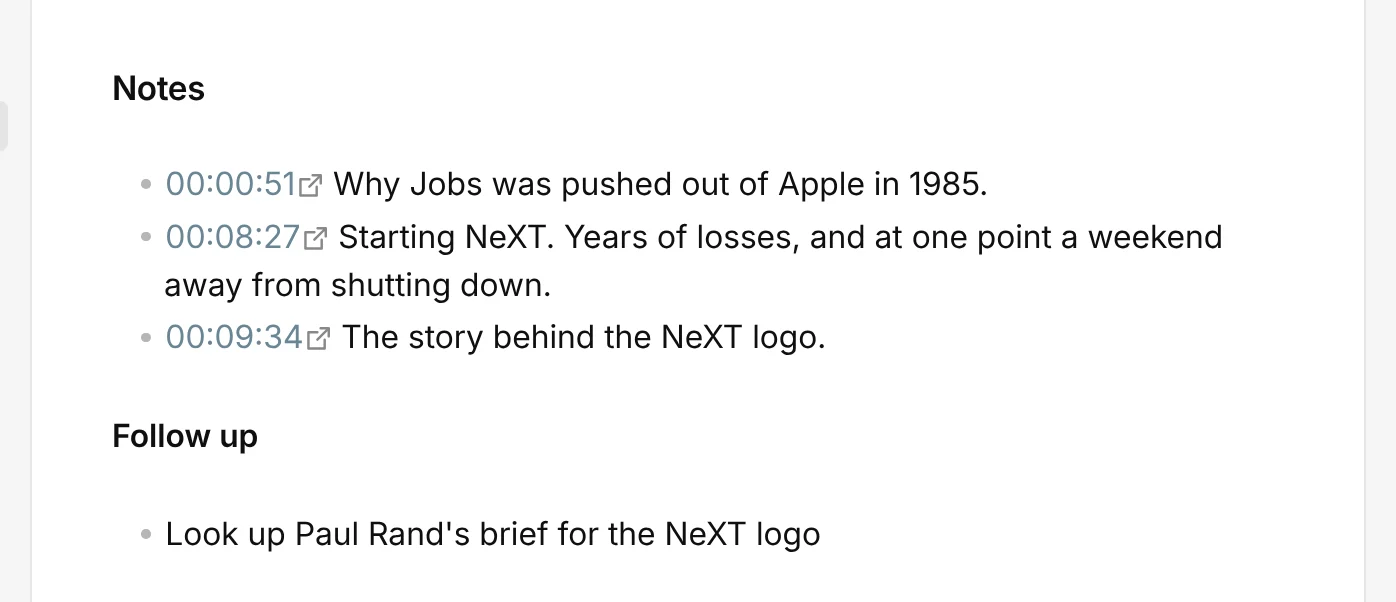
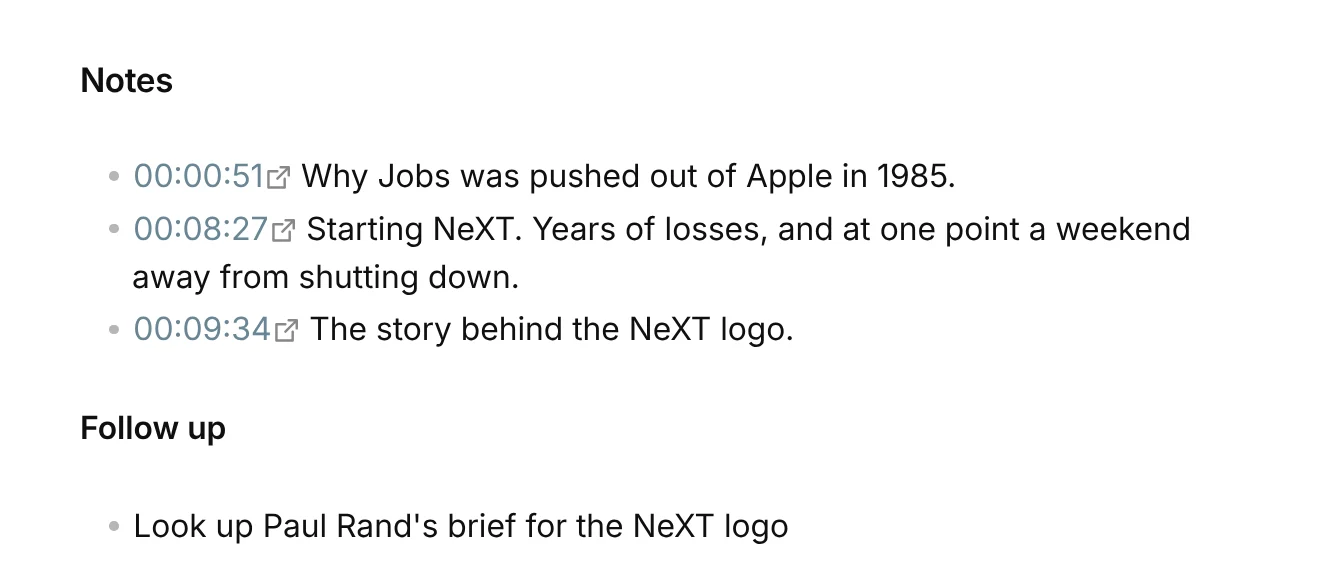
docs: apply the third review round: matching note screenshot, phone hero, and cleaner crops
The episode-note screenshot now sits under the template that produced it. Phones see the episode note with its timestamp links in the landing hero, and the desktop hero sits higher so its timestamps show above the fold. Note, Bases, player, and toolbar crops lose their stray edges, caret, and tooltip.

The phone search crop is gone: in Obsidian's phone layout, PodNotes places each result's Add button off screen, so phones get the desktop shot. Code in settings tables wraps instead of overlapping the next column.

diff --git a/docs/src/styles/custom.css b/docs/src/styles/custom.css
@@ -134,6 +134,7 @@
 		width: 24%;
 	}
 	.sl-markdown-content table.settings td code {
+		white-space: normal;
 		overflow-wrap: anywhere;
 	}
 }
@@ -149,6 +150,9 @@
 	border-bottom: 1px solid var(--sl-color-hairline);
 }
 
+.sl-anchor-link {
+	margin-inline-start: 0.25em;
+}
 .sl-anchor-link:focus-visible {
 	outline-offset: 2px;
 }
@@ -362,8 +366,11 @@ starlight-toc a {
 		color: var(--sl-color-gray-3);
 	}
 
-	/* Paths in two-column tables break instead of running off the edge. */
-	.sl-markdown-content td code {
+	/* Paths in two-column tables wrap inside one box instead of running off the
+	 * edge. */
+	.sl-markdown-content td code:not(.short) {
+		display: inline-block;
+		max-width: 100%;
 		overflow-wrap: anywhere;
 	}
 }

diff --git a/docs/src/content/docs/notes.md b/docs/src/content/docs/notes.md
@@ -6,8 +6,6 @@ description: Create a note for an episode or a whole podcast, choose where notes
 
 Create a note for the episode you are listening to, with the episode's details and a link that resumes playback, and keep your timestamps in it.
 
-![The top of an episode note with its title, properties, artwork, a Resume in PodNotes link, and a collapsed episode description](/screenshots/episode-note.webp)
-
 ## Create a note for the current episode
 
 1. Play an episode in PodNotes. You can pause it.
@@ -52,7 +50,7 @@ Feed notes and downloads have their own paths: **Feed note file path** under **F
 
 ## Change what notes contain
 
-**Note creation template** under **Episode notes** sets the content of each new episode note, and PodNotes fills in its `{{tag}}` placeholders. This template adds the episode's duration and a section for your notes:
+**Note creation template** under **Episode notes** sets the content of each new episode note, and PodNotes fills in its `{{tag}}` placeholders. This template adds the episode's duration and its artwork at 96 pixels wide, folds the description into a callout, and keeps the `status` and `rating` properties for [Bases](#browse-your-notes-with-bases):
 
 ```md
 ---
@@ -60,19 +58,30 @@ type: podcastEpisode
 podcast: "{{podcastlink}}"
 date: {{date:YYYY-MM-DD}}
 duration: "{{duration}}"
+tags:
+  - podcastEpisode
+status:
+rating:
 ---
-# {{title}}
+![|96]({{artwork}})
 
 [Resume in PodNotes]({{episodelink}})
 
+> [!summary]- Episode description
+{{description:> }}
+
 ## Notes
 ```
+
+A note made with this template looks like this:
+
+![An episode note made with this template, with its properties, artwork, a Resume in PodNotes link, and the description folded into a callout](/screenshots/episode-note.webp)
 
 **Resume in PodNotes** continues the episode from where you stopped. A changed template applies only to new notes. Feed notes use **Feed note template** under **Feed notes**. [Template tags](/templates/) lists every tag and the [default episode note template](/templates/#default-episode-note-template).
 
 ## Browse your notes with Bases
 
-[Obsidian Bases](https://obsidian.md/help/bases) shows notes as a table that you can filter, sort, and group. The default episode note template sets `type: podcastEpisode`, `podcast`, `date`, and `tags`, and leaves `status`, `rating`, and `favorite` for you to fill in. To list your episode notes grouped by status, add this code block to a note:
+[Obsidian Bases](https://obsidian.md/help/bases) shows notes as a table that you can filter, sort, and group. The default episode note template sets `type: podcastEpisode`, `podcast`, `date`, `tags`, and `favorite: false`, and leaves `status` and `rating` for you to fill in. To list your episode notes grouped by status, add this code block to a note:
 
 ````md
 ```base

diff --git a/docs/src/content/docs/getting-started.md b/docs/src/content/docs/getting-started.md
@@ -4,7 +4,7 @@ slug: getting-started
 description: Install PodNotes, add a podcast, play an episode, and save your first timestamp and episode note in about five minutes.
 ---
 
-In about five minutes you will have a podcast playing in Obsidian, a timestamp in a note that jumps back to that moment, and a note for the episode.
+In about five minutes, you get a podcast playing in Obsidian, a timestamp in a note that jumps back to that moment, and a note for the episode. PodNotes needs Obsidian 1.13 or later.
 
 ## Install PodNotes
 
@@ -15,7 +15,7 @@ In about five minutes you will have a podcast playing in Obsidian, a timestamp i
 5. Select **Install**.
 6. Select **Enable**.
 
-On a computer, the PodNotes view opens in the right sidebar. To open it again later, run **PodNotes: Show player** from the command palette (`Ctrl+P`, or `Command+P` on macOS), or select **Show PodNotes** in the ribbon. On a phone, see [Open the player](/mobile/#open-the-player).
+On a computer, the PodNotes view opens in the right sidebar. To open it again later, run **PodNotes: Show player** from the command palette (`Ctrl+P`, or `Command+P` on macOS), or select the **Show PodNotes** podcast icon in the ribbon. On a phone, see [Open the player](/mobile/#open-the-player).
 
 ## Add a podcast
 
@@ -31,11 +31,11 @@ You can also paste the show's RSS feed URL or its Apple Podcasts link into the s
 
 ## Play an episode
 
-1. At the top of the PodNotes view, select **Podcast grid**.
+1. At the top of the PodNotes view, select **Podcast grid**, the first of the three buttons.
 2. Select the show's artwork.
 3. Select an episode.
 
-The episode starts, and the view switches to the player.
+The episode starts, and the view switches to the player. Select the artwork in the player to pause or play.
 
 ## Capture a timestamp
 
@@ -45,11 +45,11 @@ The episode starts, and the view switches to the player.
 
 PodNotes inserts the playback time as a link:
 
-```md
+```md wrap
 - [00:12:41](obsidian://podnotes?...)
 ```
 
-Select the link later to play the episode from that moment.
+Select the link, in editing or reading view, to play the episode from that moment.
 
 ## Create an episode note
 
@@ -73,7 +73,7 @@ To install a release by hand:
 
 1. From the [latest release](https://github.com/chhoumann/PodNotes/releases/latest), download `main.js` and `manifest.json`.
 2. In your vault, put both files in `.obsidian/plugins/podnotes/`. Create the folder if it does not exist.
-3. In **Settings → Community plugins**, reload the list of installed plugins.
+3. In **Settings → Community plugins**, select **Reload plugins**.
 4. Turn on PodNotes.
 
 ## Next steps

diff --git a/docs/src/content/docs/podcasts.md b/docs/src/content/docs/podcasts.md
@@ -30,11 +30,11 @@ PodNotes keeps the podcast's episode notes, downloads, and playlist entries.
 
 ![The podcast grid with the Queue, Favorites, Local Files, and Played playlists above podcast artwork tiles](/screenshots/podcast-grid.webp)
 
-The view then lists that podcast's or playlist's episodes. When the queue holds episodes, **Queue** opens the player instead, which shows the **Queue** list.
+The view then lists that podcast's or playlist's episodes. **Queue** is the exception: when it holds episodes, it opens the player, which shows the **Queue** list.
 
 To return to the last list you saw, select **Episode list**. If it shows a podcast or a playlist, select **Latest Episodes** at the top to see the newest episodes of every podcast.
 
-Above each list, **Search episodes** filters it, and **Refresh episodes** fetches new episodes. Except in **Played**, **Hide played episodes** hides the episodes that PodNotes strikes through as played, and **Show played episodes** brings them back.
+Above each list, **Search episodes** filters it, and **Refresh episodes** fetches new episodes. **Hide played episodes** hides the episodes that PodNotes strikes through as played, and **Show played episodes** brings them back. The **Played** list always shows them.
 
 <span id="how-many-latest-episodes-are-shown"></span>**Latest Episodes** shows and searches the 10 newest episodes of each podcast. To show up to 75, raise **Latest episodes per podcast** in **Settings → PodNotes**.
 
@@ -67,4 +67,4 @@ To open an episode's menu, right-click the episode or select its **More options*
 | **Add to Favorites** or **Remove from Favorites** | Adds the episode to **Favorites** or removes it. |
 | **Add to Queue** or **Remove from Queue** | Adds the episode to the bottom of the queue or removes it. |
 | **Move to top of queue**, **Move up in queue**, **Move down in queue**, **Move to bottom of queue** | Moves the episode within the queue. Shown only in the player's **Queue** list. |
-| **Add to** or **Remove from** followed by a playlist name | Adds the episode to that playlist or removes it. One item per playlist you made. |
+| **Add to** *playlist* or **Remove from** *playlist* | Adds the episode to that playlist or removes it. One item per playlist you made. |

diff --git a/docs/src/content/docs/templates.md b/docs/src/content/docs/templates.md
@@ -4,7 +4,7 @@ slug: templates
 description: Every template tag PodNotes fills in for note paths, episode notes, feed notes, downloads, and transcripts, with the default templates and date formats.
 ---
 
-Look up every `{{tag}}` that PodNotes fills in when it creates a note, a download, or a transcript. To change where notes go and what they hold, see [Create episode notes](/notes/).
+Look up every `{{tag}}` that PodNotes fills in when it creates a note, a download, or a transcript. To change where notes go and what they hold, see [Create episode notes](/notes/). The tags for captured timestamps are under [Timestamp tags](/timestamps/#timestamp-tags).
 
 ## Tag rules
 
@@ -126,7 +126,7 @@ favorite: false
 {{description}}
 ```
 
-Its properties work with Obsidian Bases. You fill in `status`, `rating`, and `favorite`. To build a table of episode notes, see [Browse your notes with Bases](/notes/#browse-your-notes-with-bases).
+Its properties work with Obsidian Bases. You fill in `status` and `rating`, and change `favorite` to `true` for the episodes you like. To build a table of episode notes, see [Browse your notes with Bases](/notes/#browse-your-notes-with-bases).
 
 The title and the URL are in the body, not the properties. An escaped title can contain backslashes, and a vault link can contain quotes, so either value can break a quoted property. The quoted `{{podcastlink}}` is safe as long as **Feed note file path** has no quotes or backslashes.
 
@@ -188,7 +188,7 @@ Date: {{date}}
 
 **Speaker label format** accepts `{{speaker}}`, the label of the speaker for each turn. See [Transcribe episodes](/transcripts/) for speaker labels.
 
-**Capture timestamp format** accepts `{{time}}`, `{{linktime}}`, `{{segment}}`, and `{{linksegment}}`. See [Timestamp tags](/timestamps/#timestamp-tags).
+**Capture timestamp format** accepts `{{time}}`, `{{linktime}}`, `{{segment}}`, and `{{linksegment}}`. See [Timestamp tags](/timestamps/#timestamp-tags). If your captures come out as plain text, see [Make timestamps clickable](/timestamps/#make-timestamps-clickable).
 
 ## Date formats
 

diff --git a/docs/src/content/docs/mobile.md b/docs/src/content/docs/mobile.md
@@ -24,13 +24,12 @@ To add your first podcast, see [Add and play podcasts](/podcasts/). Most command
 
 ### Set up the button once
 
-1. Open a note in editing view.
-2. To add the range commands too, play an episode in PodNotes. You can pause it.
-3. In **Settings → Interface**, select **Configure mobile toolbar**.
-4. Under **Manage toolbar options**, select **Add a command...**.
-5. Find and select **PodNotes: Capture Timestamp**.
+1. Open a note in editing view. Obsidian lists the capture command only while a note is open in an editor.
+2. In **Settings → Interface**, select **Configure mobile toolbar**.
+3. Under **Manage toolbar options**, select **Add a command...**.
+4. Find and select **PodNotes: Capture Timestamp**.
 
-To add a range button, repeat steps 4 and 5 with **PodNotes: Capture Last 10 Seconds** or **PodNotes: Capture Last 20 Seconds**. Obsidian lists them only while [the range commands are available](/commands/#capture-last-10-seconds--capture-last-20-seconds).
+To add a range button, play an episode in PodNotes first (you can pause it), then repeat steps 3 and 4 with **PodNotes: Capture Last 10 Seconds** or **PodNotes: Capture Last 20 Seconds**. Obsidian lists them only while [the range commands are available](/commands/#capture-last-10-seconds--capture-last-20-seconds).
 
 ### Capture from the toolbar
 
@@ -45,7 +44,7 @@ PodNotes inserts a timestamp link at the cursor, or shows a notice when no episo
 
 ## Capture with a headset
 
-While an episode plays, press the headset button that sends the previous-track action. This works on a computer too.
+While an episode plays, press the headset button that sends the previous-track action, often a triple press. This works on a computer too.
 
 - If a note is open in an editor, the timestamp goes in at the cursor.
 - If no note is open in an editor, the timestamp goes at the end of the episode's note. PodNotes creates that note if needed, as long as **Note creation file path** and **Note creation template** are set.

diff --git a/docs/src/content/docs/timestamps.md b/docs/src/content/docs/timestamps.md
@@ -15,7 +15,7 @@ Capture a timestamp while you listen, and PodNotes inserts the playback time at 
 3. Place the cursor where you want the timestamp.
 4. Run **PodNotes: Capture Timestamp** from the command palette (`Ctrl+P`, or `Command+P` on macOS).
 
-PodNotes inserts a list item with a link such as `00:12:41`, followed by a space for your note. A capture replaces any selected text. Select the link later to play the episode from that moment. To keep your timestamps in one note per episode, see [Create episode notes](/notes/).
+PodNotes inserts a list item with a link such as `00:12:41`, followed by a space for your note. A capture replaces any selected text. Select the link, in editing or reading view, to play the episode from that moment. To keep your timestamps in one note per episode, see [Create episode notes](/notes/).
 
 ## Capture from a hotkey, the toolbar, or a headset
 
@@ -37,12 +37,12 @@ The range commands adapt **Capture timestamp format**, as [Timestamp tags](#time
 
 ## Make timestamps clickable
 
-If your captures come out as plain text with no link, your format uses `{{time}}`, the default before PodNotes 2.21.0.
+If your captures come out as plain text with no link, your format most likely uses `{{time}}`, the default before PodNotes 2.21.0.
 
 1. Open **Settings → PodNotes**.
 2. Under **Episode notes**, set **Capture timestamp format** to `- {{linktime}}` with a space at the end.
 
-New captures are links. Timestamps that you captured before stay plain text.
+New captures are links. Timestamps that you captured before stay plain text. If the format already uses `{{linktime}}`, the episode has no feed URL or local file to link to.
 
 ## Compensate for reaction time
 
